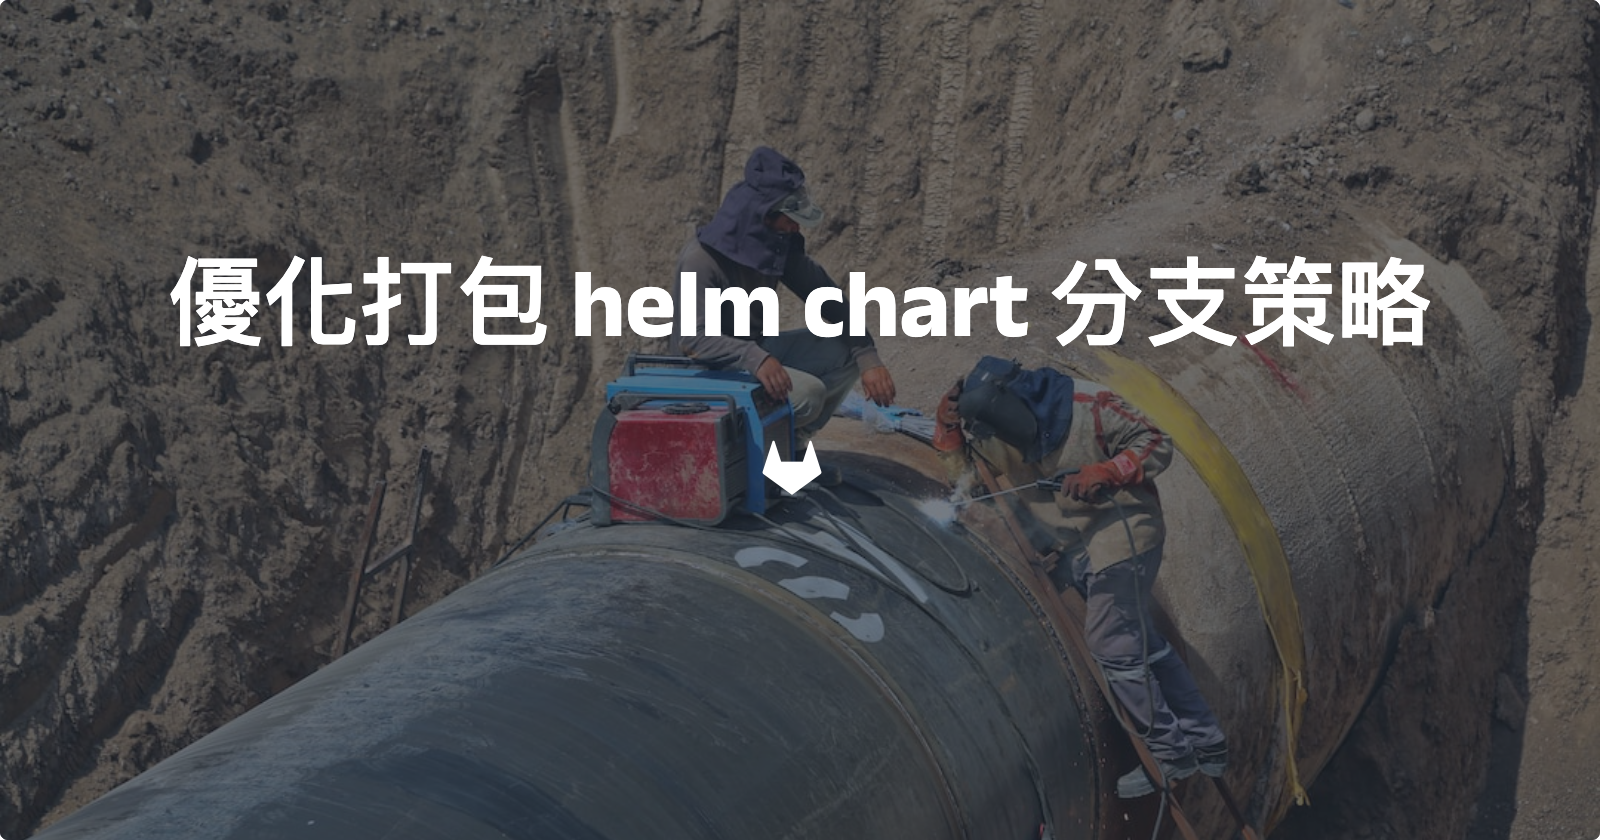
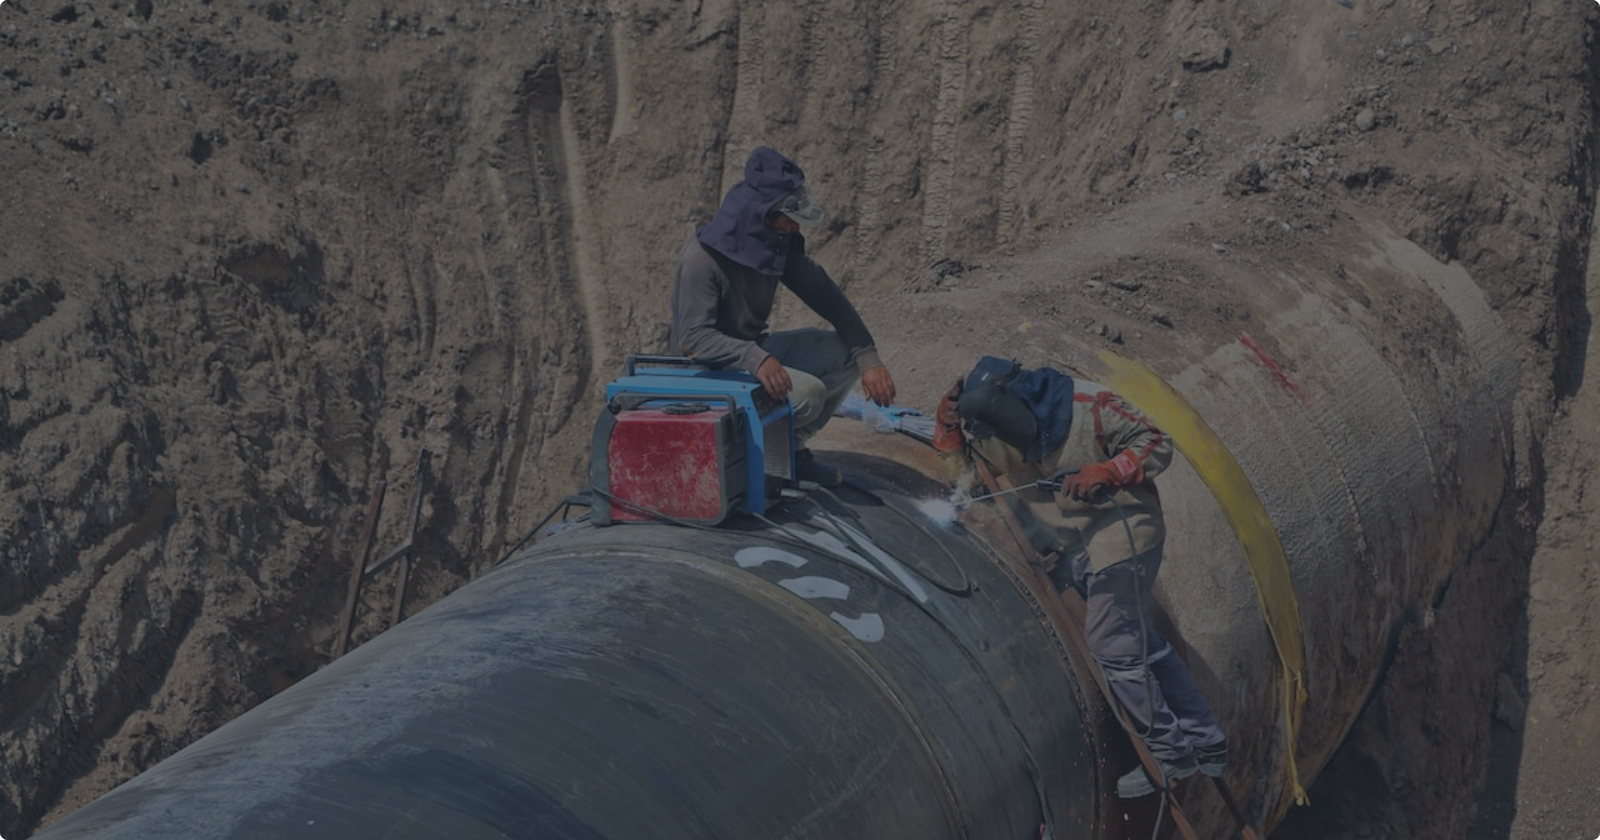
[Update] 更新封面圖片
漂漂亮亮好看～

Changed region(s): [[0.0938, 0.3095, 0.9062, 0.4333], [0.4688, 0.5262, 0.5312, 0.5881]]

diff --git a/content/journals/linux/cp-file-fill-up-the-disk/index.md b/content/journals/linux/cp-file-fill-up-the-disk/index.md
@@ -62,6 +62,16 @@ end
 雖然之後重新發布就沒有問題了，但還是一個教訓。
 
 ## 改善與檢討
-這邊簡單回顧一下 `cp` 指令可以怎麼做。
+這邊回顧一下 `cp` 指令可以怎麼做。
 
 如果要複製目錄的話，可以使用 `cp -r`，可以複製目錄跟子目錄底下的所有文件。
+```
+# 使用 cp 複製目錄 Dir_A 並貼上到目錄 Dir_B 裡
+$ cp -r Dir_A Dir_B
+
+# 使用 cp 複製目錄 Dir_A 並命名為 Dir_C (如果 Dir_C 原來不存在)
+cp -r Dir_A Dir_C
+
+# 複製 Dir_A 裡的所有檔案到 Dir_B 裡
+$ cp -r Dir_A/* Dir_B
+```
